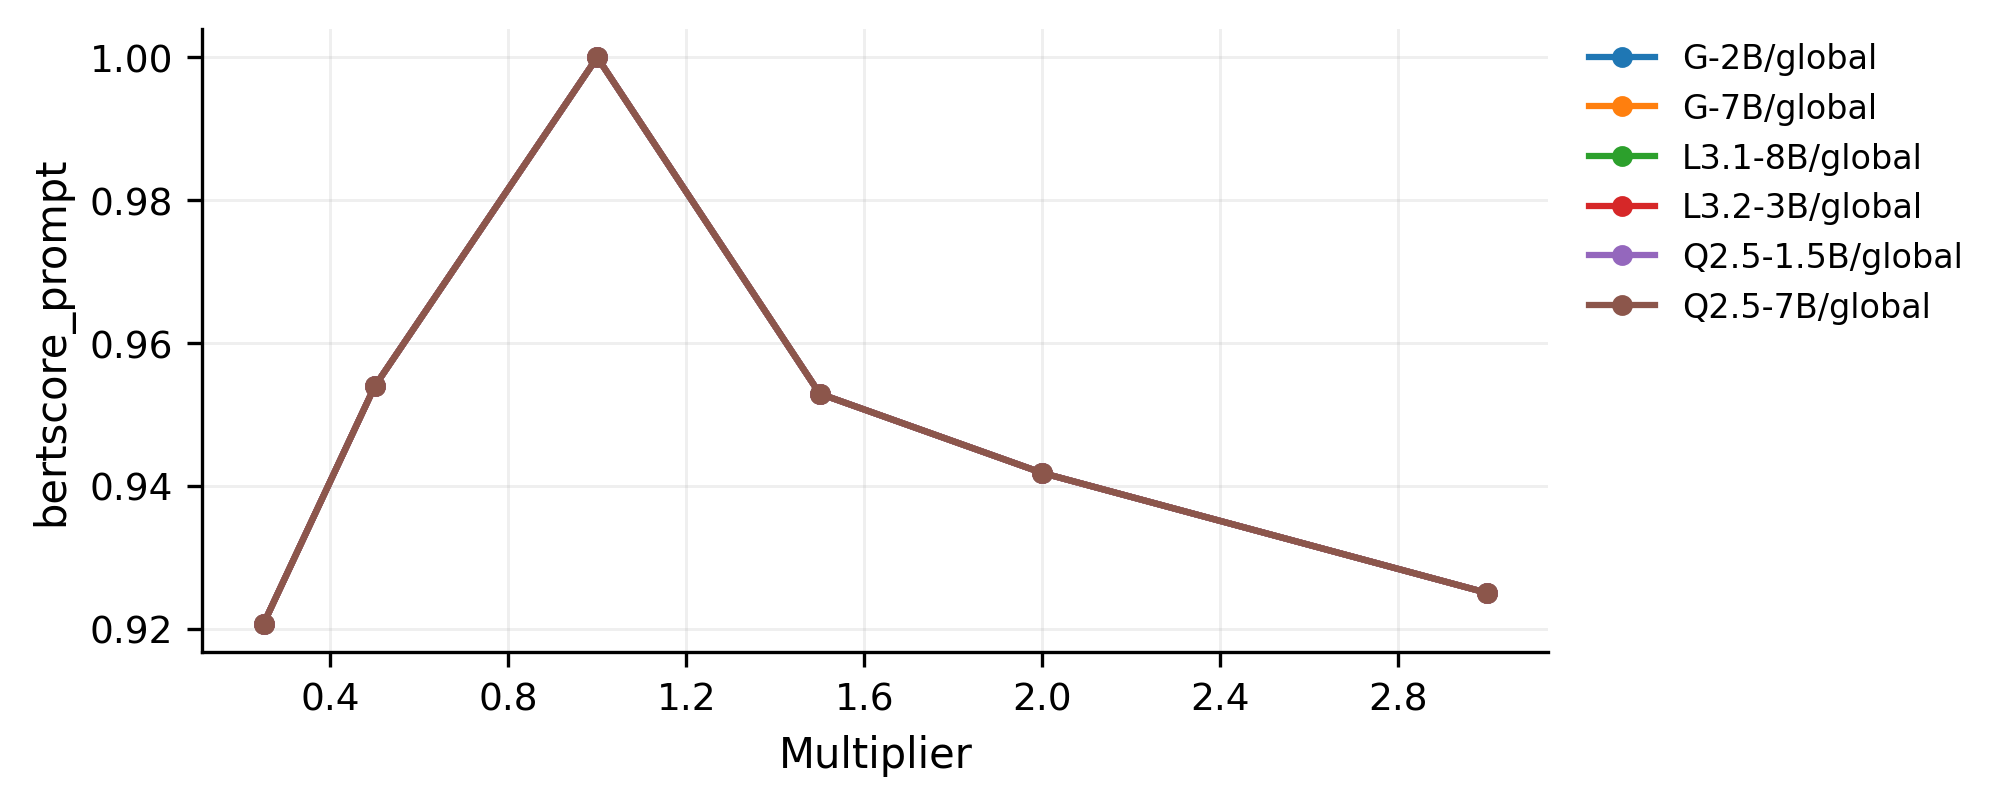
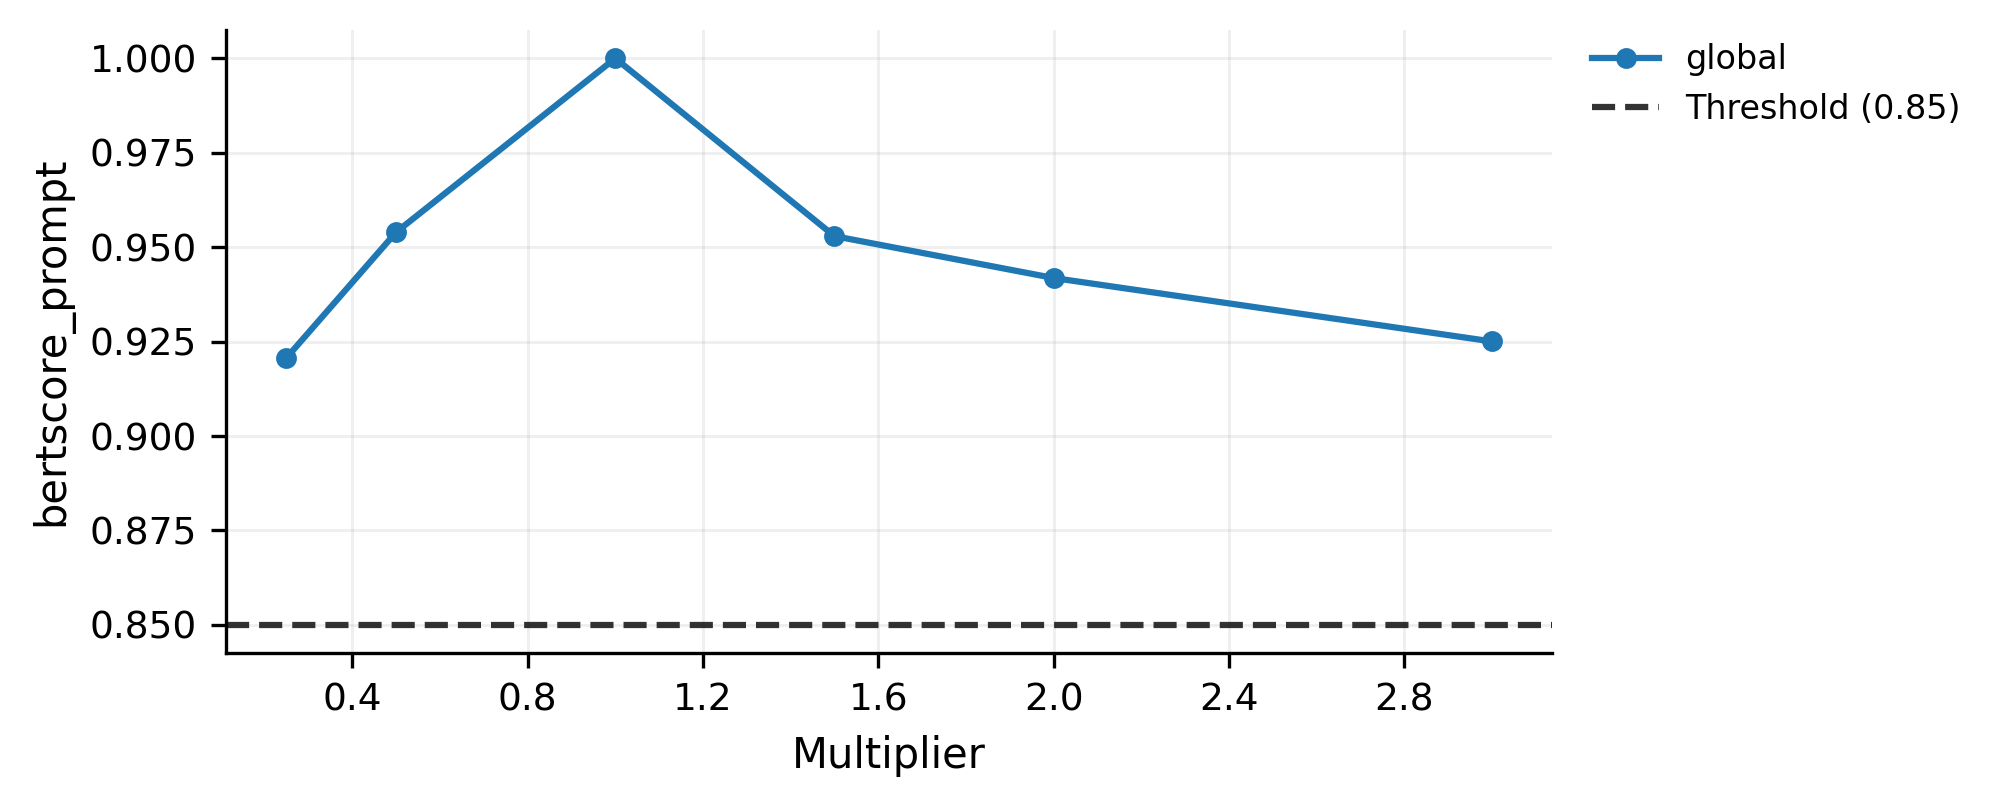
Fixed BERTscore prompt plot and deleted empty JSD drift plots

diff --git a/utils/plots.py b/utils/plots.py
@@ -991,14 +991,34 @@ def plot_metric_lines(
     else:
         x_positions = [float(s) for s in strengths_sorted]
 
-    for model in sorted(df["model"].unique().tolist()):
+    if metric == "bertscore_prompt":
         for place in sorted(df["place"].unique().tolist()):
-            sub = df[(df["model"] == model) & (df["place"] == place)].copy()
+            sub = df[df["place"] == place].copy()
             if sub.empty:
                 continue
+            sub = sub.drop_duplicates(subset=["strength", "place"])
             sub = sub.set_index("strength").reindex(strengths_sorted)
             y = sub[metric].values
-            ax.plot(x_positions, y, marker="o", label=f"{model}/{place}")
+            ax.plot(x_positions, y, marker="o", label=f"{place}")
+    else:
+        for model in sorted(df["model"].unique().tolist()):
+            for place in sorted(df["place"].unique().tolist()):
+                sub = df[(df["model"] == model) & (df["place"] == place)].copy()
+                if sub.empty:
+                    continue
+                sub = sub.set_index("strength").reindex(strengths_sorted)
+                y = sub[metric].values
+                ax.plot(x_positions, y, marker="o", label=f"{model}/{place}")
+
+    if metric == "bertscore_prompt":
+        ax.axhline(
+            y=0.85,
+            color="black",
+            linestyle="--",
+            linewidth=1.5,
+            alpha=0.8,
+            label="Threshold (0.85)",
+        )
 
     if is_categorical:
         ax.set_xticks(x_positions)
